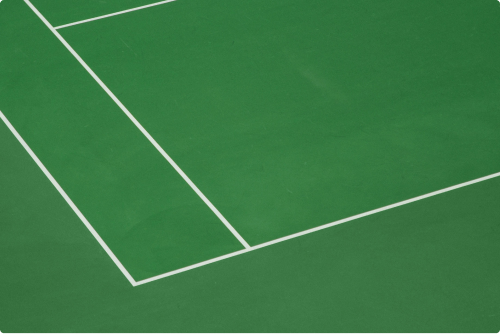
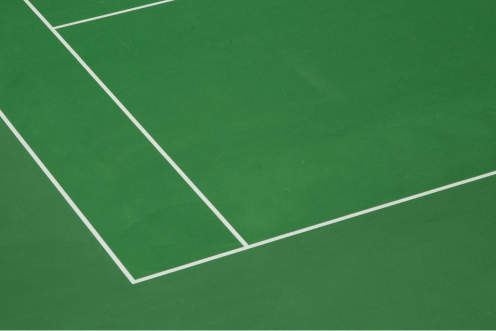
added image

diff --git a/app/page.tsx b/app/page.tsx
@@ -4,7 +4,7 @@ import React, { useState } from 'react'
 import { Button } from "@/components/button"
 import Footer from '@/components/ui/footer';
 import Link from 'next/link';
-
+import Image from 'next/image';
 export default function Home() {
   const [selectedButton, setSelectedButton] = useState<string>('home')
 
@@ -14,41 +14,51 @@ export default function Home() {
 
   return (
     <main className="page-container">
-      <section className="flex flex-col gap-3">
-        <div className="flex flex-row justify-between items-center">
-          <h1>Hey, I'm Robert.</h1>
-          <nav className="space-x-1">
-            <Button 
-              isSelected={selectedButton === 'home'}
-              onClick={() => handleButtonClick('home')}
-            >
-              HOME
-            </Button>
-            <Button 
-              isSelected={selectedButton === 'writing'}
-              onClick={() => handleButtonClick('writing')}
-            >
-              WRITING
-            </Button>
-          </nav>
-        </div>
-        <div className="flex flex-col gap-3"> 
-        <p className="b_mono">
-          I am a product designer obsessed with finding the simplest solution that leaves room for taste. 
-          Previously, I was at <a href="https://business.linkedin.com/marketing-solutions/ads/linkedin-accelerate" className="link-underline-body" rel="noopener noreferrer">LinkedIn</a> reimagining 
-          the future of generative AI ads. In my past life, I engineered insulin delivery pods at{' '} 
-          <a href="https://www.bd.com/en-us" className="link-underline-body" rel="noopener noreferrer">Becton Dickinson & Co</a>. 
-        </p>
-
-        <p className="b_mono">
-          Apart from work, you'll find me exploring analog{' '} 
-          <Link href="https://twitter.com/robertkkan" className="link-underline-body" rel="noopener noreferrer" aria-label="My photography on Twitter">photography</Link>, 
-          though I still reach for digital sometimes. I also enjoy ideating novel product ideas and scrolling{' '}
-          <a href="https://twitter.com/robertkkan" className="link-underline-body" rel="noopener noreferrer">Twitter</a> a bit too much.
-        </p>
+      <div className="flex flex-col gap-5 items-center">
+        <section className="flex flex-col gap-3">
+          <div className="flex flex-row justify-between items-center">
+            <h1>Hey, I'm Robert.</h1>
+            <nav className="space-x-1">
+              <Button 
+                isSelected={selectedButton === 'home'}
+                onClick={() => handleButtonClick('home')}
+              >
+                HOME
+              </Button>
+              <Button 
+                isSelected={selectedButton === 'writing'}
+                onClick={() => handleButtonClick('writing')}
+              >
+                WRITING
+              </Button>
+            </nav>
+          </div>
+          <div className="flex flex-col gap-3"> 
+            <p className="b_mono">
+              I am a product designer obsessed with finding the simplest solution that leaves room for taste. 
+              Previously, I was at <a href="https://business.linkedin.com/marketing-solutions/ads/linkedin-accelerate" className="link-underline-body" rel="noopener noreferrer">LinkedIn</a> reimagining 
+              the future of generative AI ads. In my past life, I engineered insulin delivery pods at{' '} 
+              <a href="https://www.bd.com/en-us" className="link-underline-body" rel="noopener noreferrer">Becton Dickinson & Co</a>. 
+            </p>
+            <p className="b_mono">
+              Apart from work, you'll find me exploring analog{' '} 
+              <Link href="https://twitter.com/robertkkan" className="link-underline-body" rel="noopener noreferrer" aria-label="My photography on Twitter">photography</Link>, 
+              though I still reach for digital sometimes. I also enjoy ideating novel product ideas and scrolling{' '}
+              <a href="https://twitter.com/robertkkan" className="link-underline-body" rel="noopener noreferrer">Twitter</a> a bit too much.
+            </p>
+          </div>
+        </section>
+        <div className="w-full md:w-[30rem] mx-auto">
+          <Image
+            src="/images/tennis.png"
+            alt="Robert playing tennis"
+            width={496}
+            height={496}
+            className="rounded-[4px] object-cover w-full h-auto"
+          />
         </div>
         <Footer />
-      </section>
+      </div>
     </main>
   )
 }

diff --git a/components/ui/footer.tsx b/components/ui/footer.tsx
@@ -3,10 +3,10 @@ import Link from 'next/link';
 
 const Footer: React.FC = () => {
   return (
-    <footer className="mt-5 pt-4 border-t-0.8 border-tertiary-color">
+    <footer className="w-full pt-4 border-t-0.8 border-tertiary-color">
       <div className="flex justify-center">
         <nav className="flex items-center">
-          <ul className="flex">
+          <ul className="flex flex-wrap justify-center">
             <li>
               <a 
                 href="/other-assets/resume_2024.pdf" 
